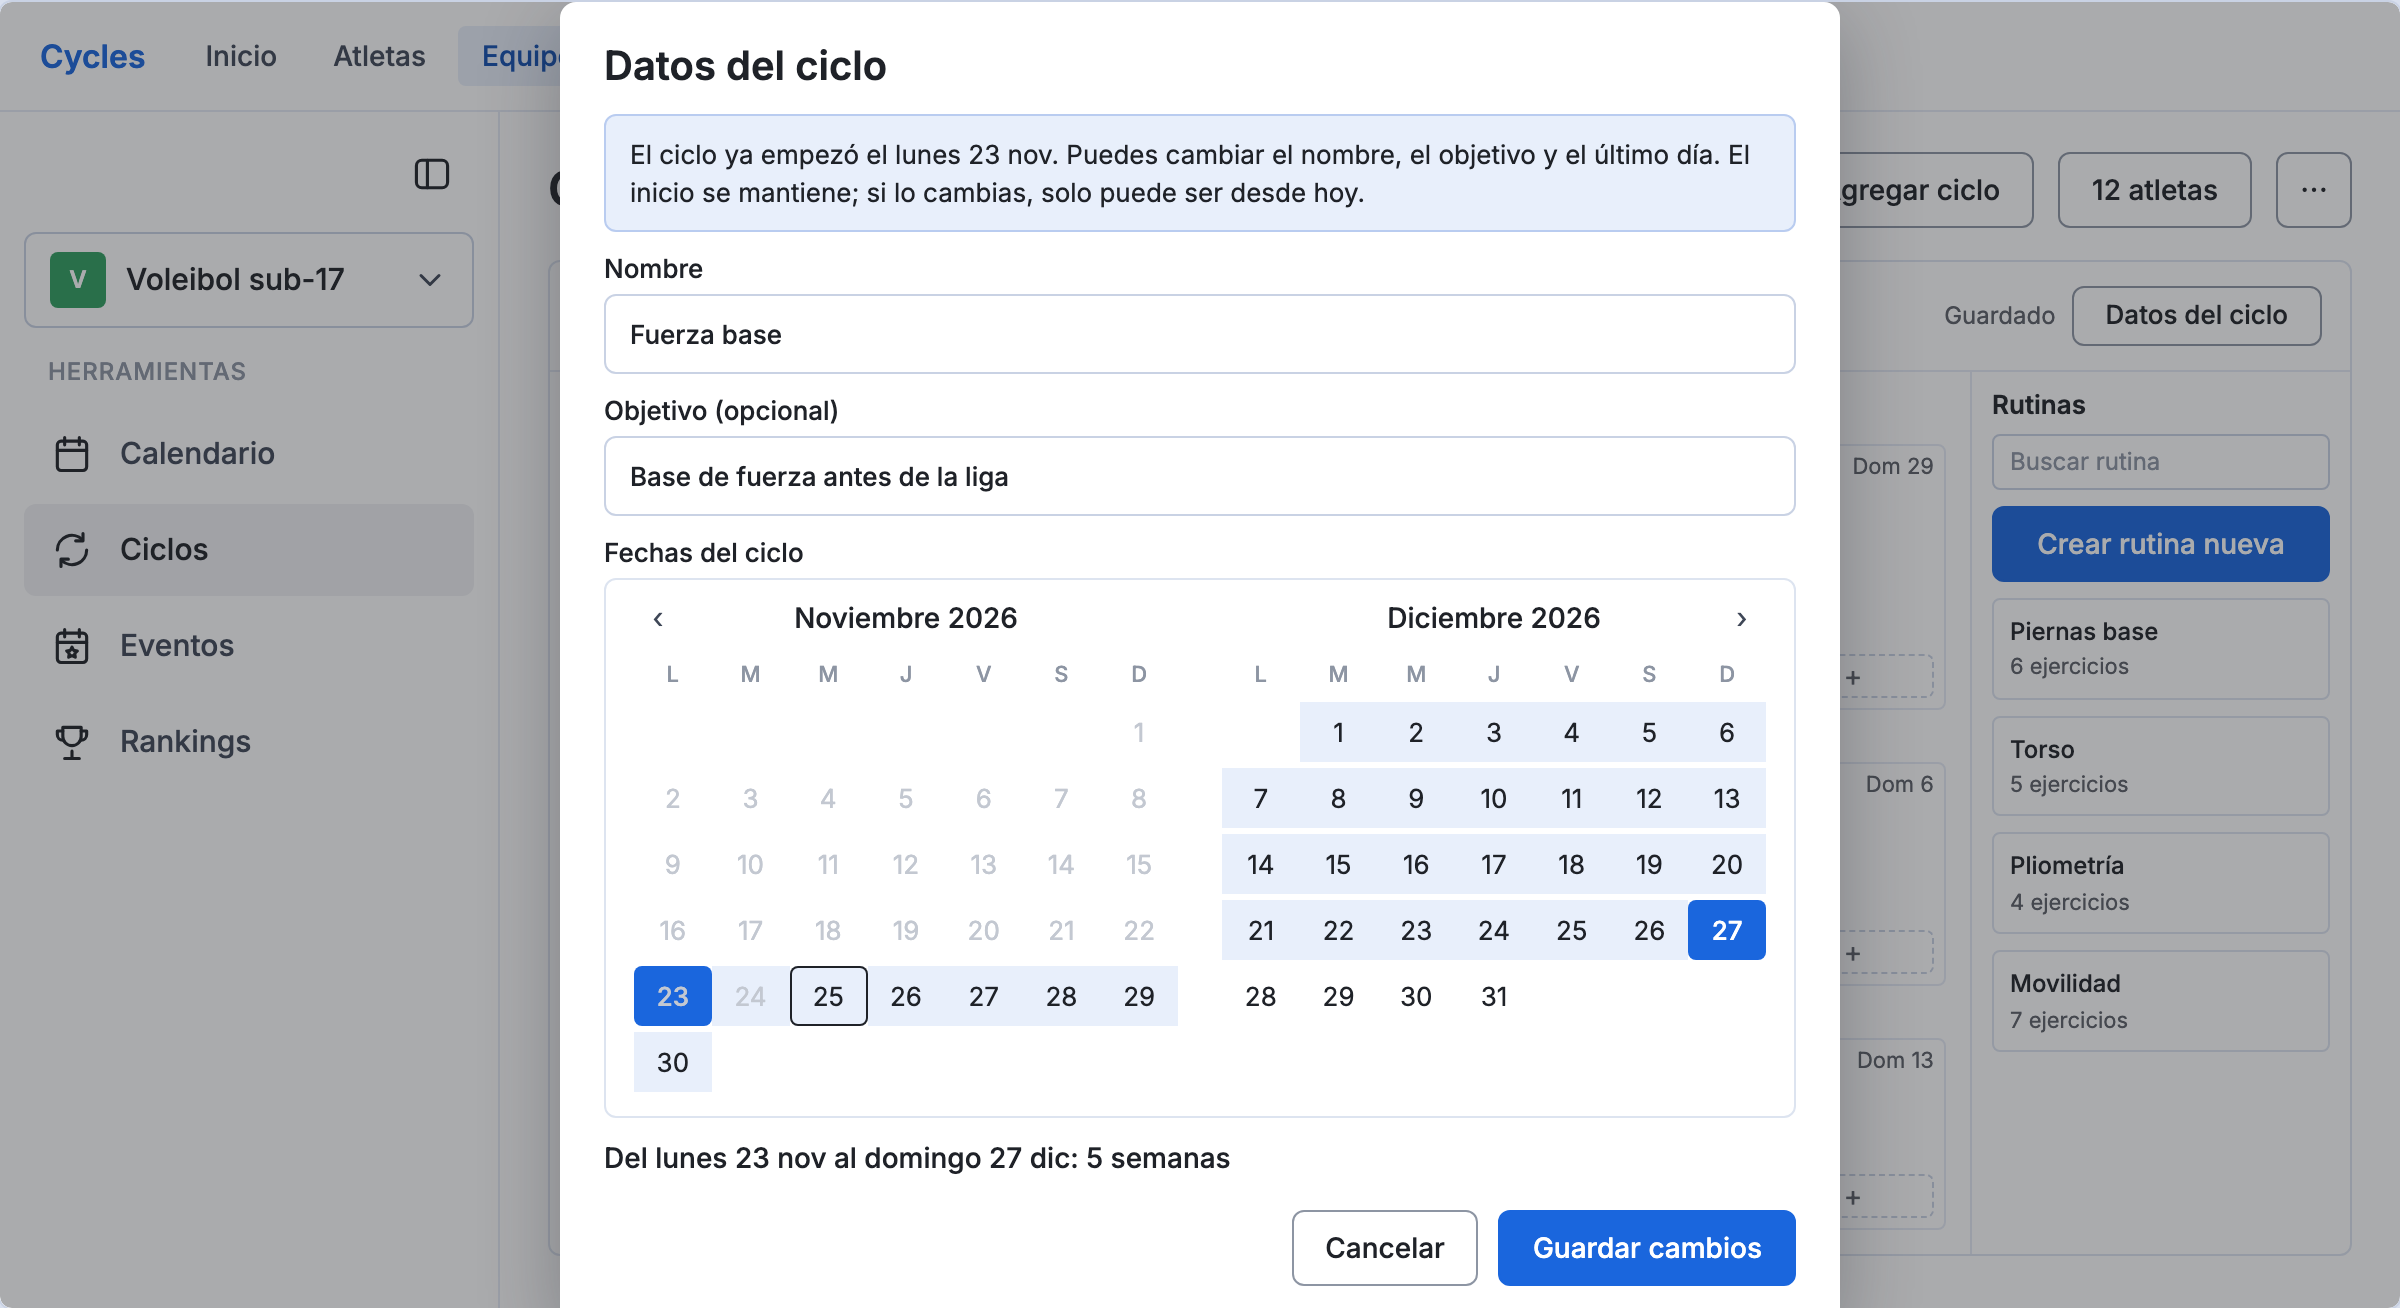
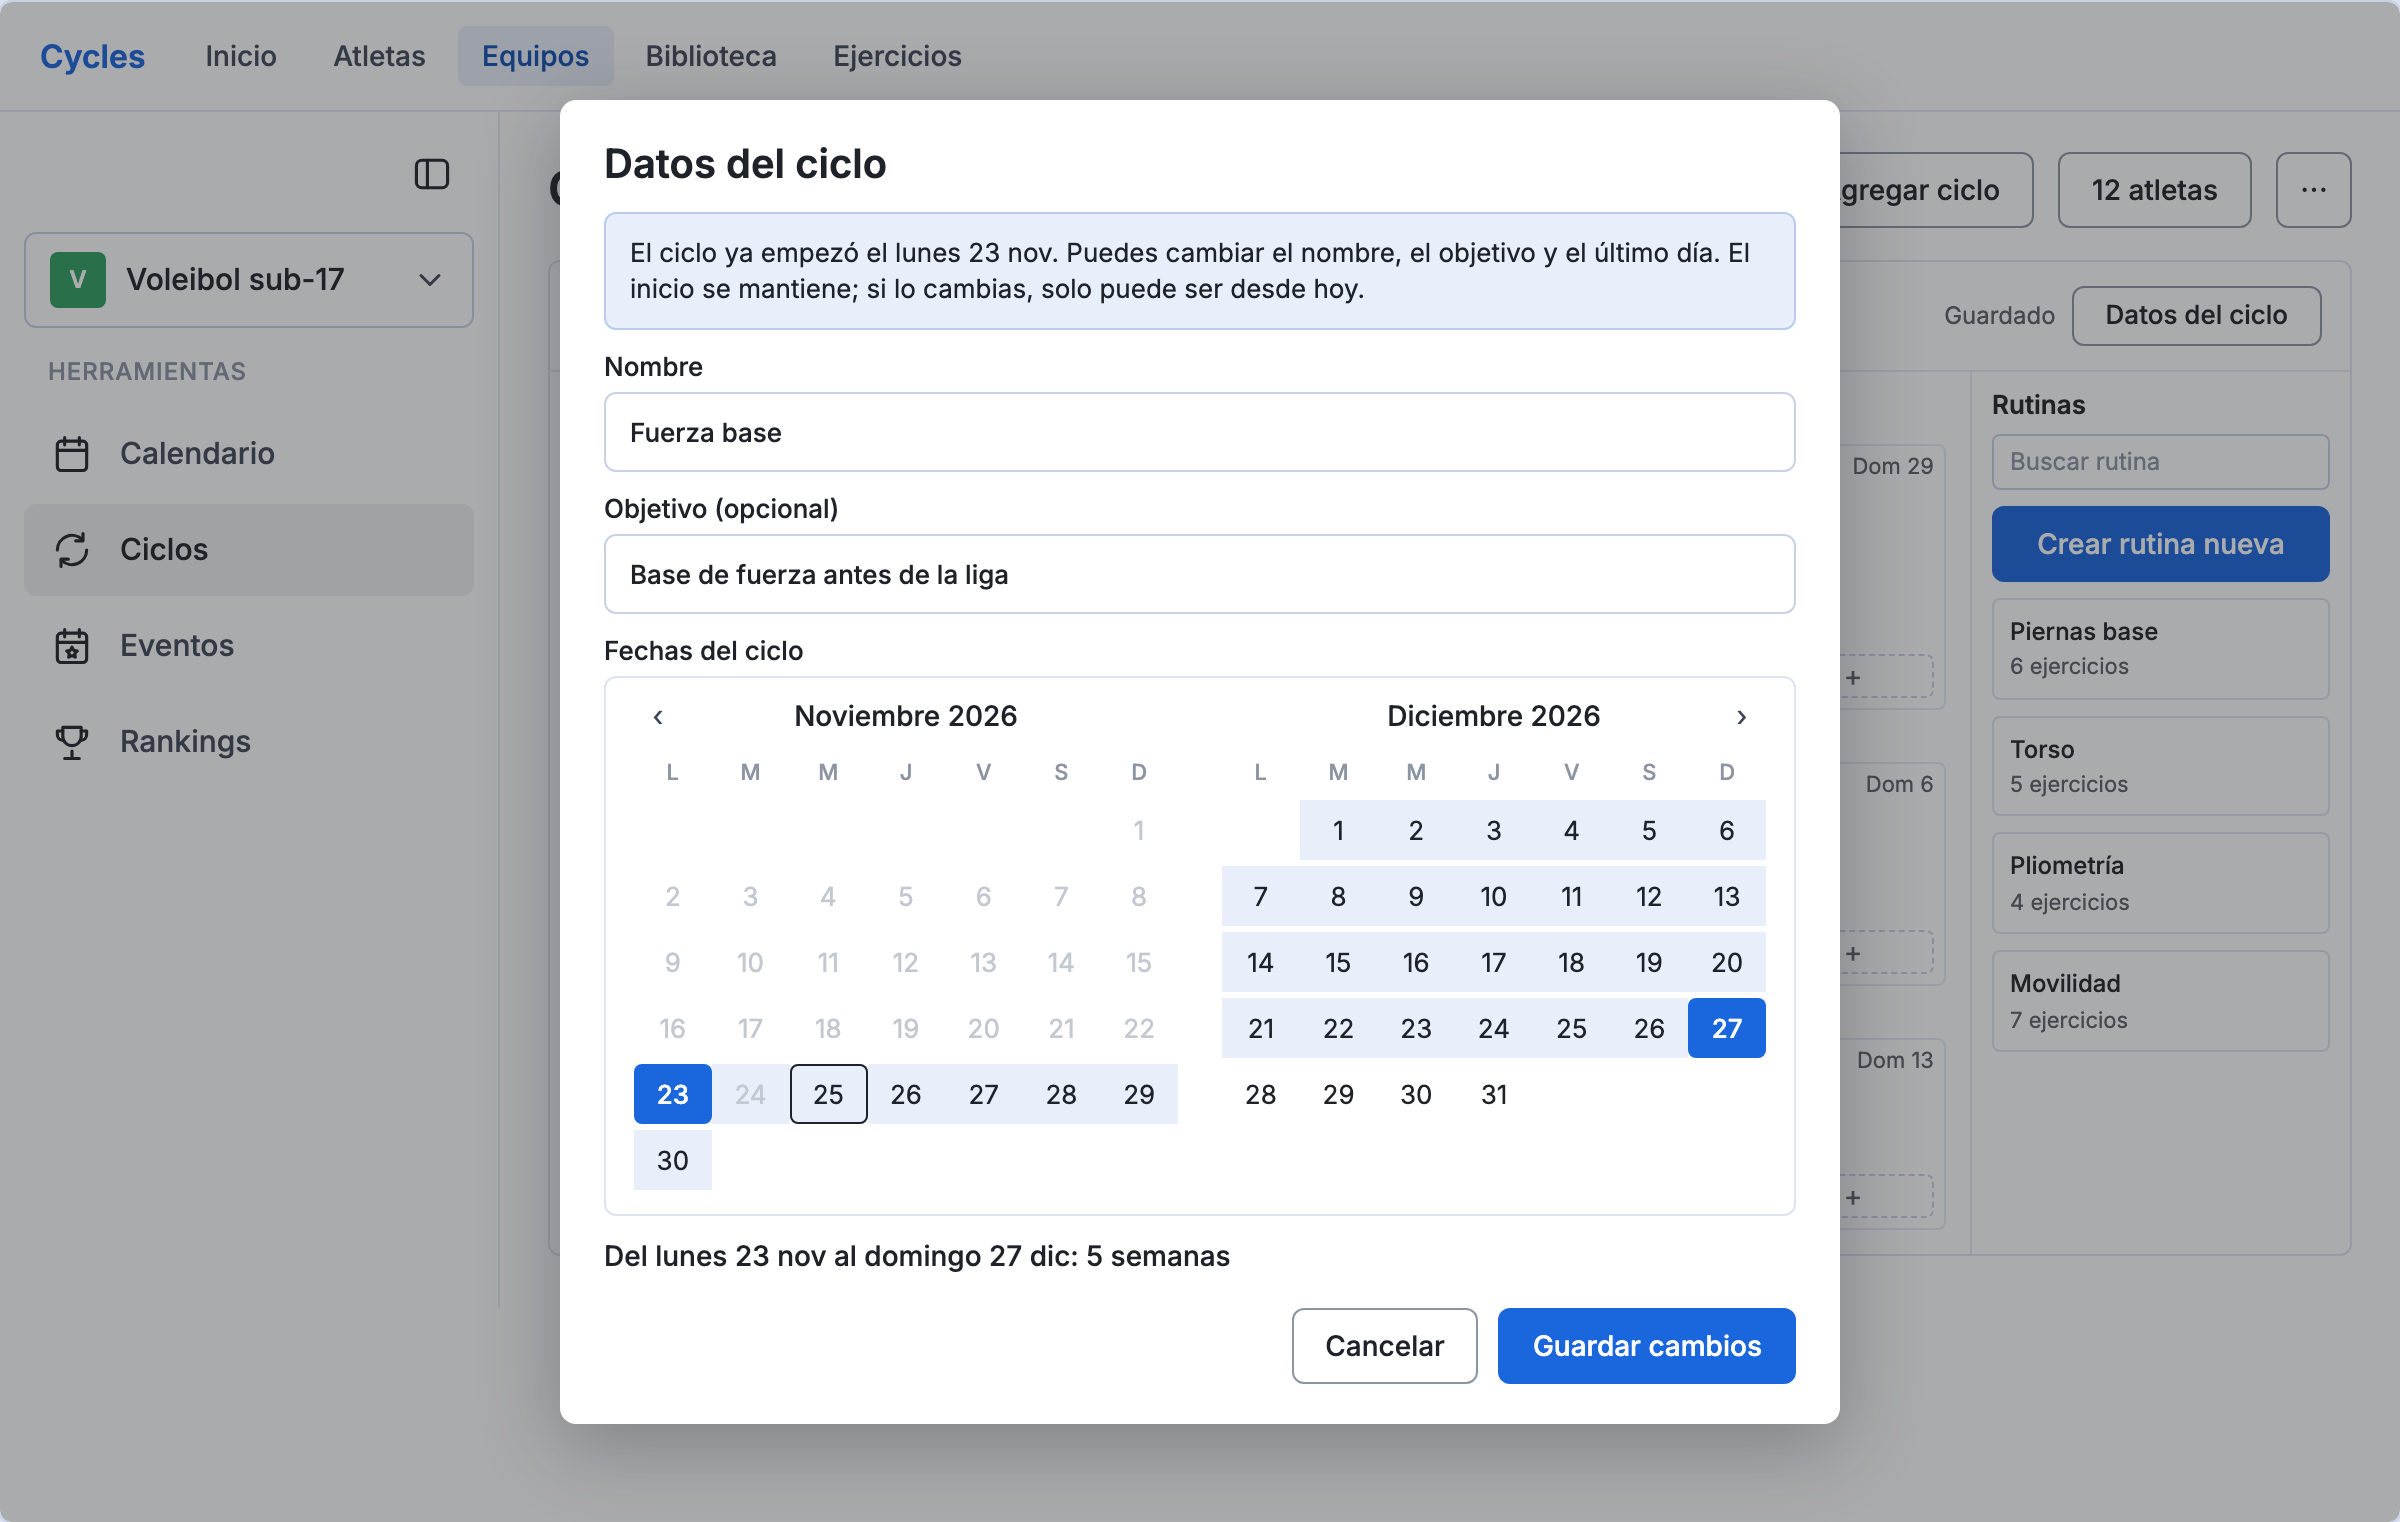
Ajusta el cuadro «Datos del ciclo» para que se vea completo (CYC-316)

diff --git a/docs/diseno/ciclo-del-equipo/propuestas.html b/docs/diseno/ciclo-del-equipo/propuestas.html
@@ -561,6 +561,7 @@ body{font-family:Inter,-apple-system,system-ui,sans-serif;background:#d9e0ee;col
 .cq-leg{display:flex;gap:14px;margin-top:8px;font:400 12px/1.3 Inter;color:#5c6068}
 .cq-leg i{display:inline-block;width:10px;height:10px;border-radius:2px;margin-right:5px;vertical-align:-1px}
 .cq-g span.off{color:#c3c8d1}
+.cq-g span.edge.off{color:#fff}
 
 </style>
 </head>
@@ -845,7 +846,7 @@ function chocaEquipo(){
  return CQ(side('Ciclos'),board(),scrim(640,`<h3>Nuevo ciclo para Voleibol sub-17</h3><div class="cq-warn" role="alert">Esas fechas se cruzan con «Fuerza base», que va hasta el 20 dic. Por ahora el equipo tiene un solo ciclo a la vez: elige desde el 21 dic.</div>${fl('Nombre','Preparación liga')}${rango(o)}<div class="cq-leg"><span><i style="background:#fdeede;border:1px solid #f0c9a0"></i>Días de «Fuerza base»</span></div>${acts('Continuar',1)}`));
 }
 function editarDatos(){
- return CQ(side('Ciclos'),board(),scrim(640,`<h3>Datos del ciclo</h3><div class="cq-info">El ciclo ya empezó el lunes 23 nov. Puedes cambiar el nombre, el objetivo y el último día. El inicio se mantiene; si lo cambias, solo puede ser desde hoy.</div>${fl('Nombre','Fuerza base')}${fl('Objetivo (opcional)','Base de fuerza antes de la liga')}${rango({from:key(11,23),to:key(12,27)})}<div class="cq-sum" role="status">Del lunes 23 nov al domingo 27 dic: 5 semanas</div>${acts('Guardar cambios')}`));
+ return CQ(side('Ciclos'),board(),scrim(640,`<h3>Datos del ciclo</h3><div class="cq-info">El ciclo ya empezó el lunes 23 nov. Puedes cambiar el nombre, el objetivo y el último día. El inicio se mantiene; si lo cambias, solo puede ser desde hoy.</div>${fl('Nombre','Fuerza base')}${fl('Objetivo (opcional)','Base de fuerza antes de la liga')}${rango({from:key(11,23),to:key(12,27)})}<div class="cq-sum" role="status">Del lunes 23 nov al domingo 27 dic: 5 semanas</div>${acts('Guardar cambios')}`)).replace('class="web t3 wide"','class="web t3 wide" style="min-height:760px"');
 }
 function novedad(){
  return `<div class="web t3" style="min-height:420px;background:#cfd8ea;display:grid;place-items:center"><div style="width:440px;background:#fff;border-radius:8px;overflow:hidden;box-shadow:0 10px 40px rgba(31,34,40,.3)"><div style="height:170px;background:#f3f6fc;display:flex;align-items:center;justify-content:center;gap:14px"><div style="width:110px">${ses('Piernas base','Equipo')}</div><span style="font:500 24px/1 Inter;color:#1a66dd">→</span><div style="display:flex">${ATH.slice(0,4).map(a=>`<div style="margin-left:-4px">${AVb(a[0])}</div>`).join('')}</div></div><div style="padding:18px 22px 20px"><div style="font:600 20px/1.25 Inter;margin-bottom:8px">Planifica el ciclo de tu equipo</div><div style="font:400 15px/1.45 Inter;color:#3f4757;margin-bottom:16px">Pon las sesiones una vez en el calendario del equipo y llegan a cada integrante.</div><div style="display:flex;justify-content:flex-end"><span class="t3btn pr">Entendido</span></div></div></div></div>`;
